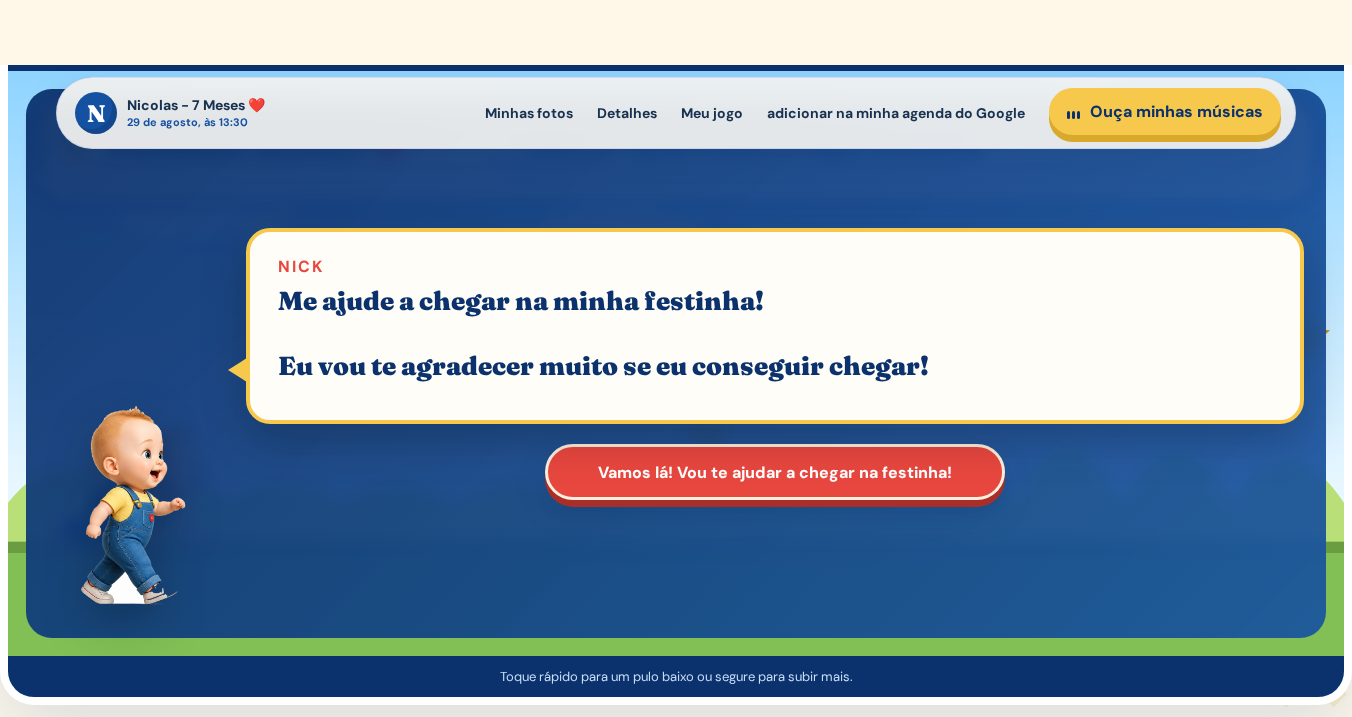
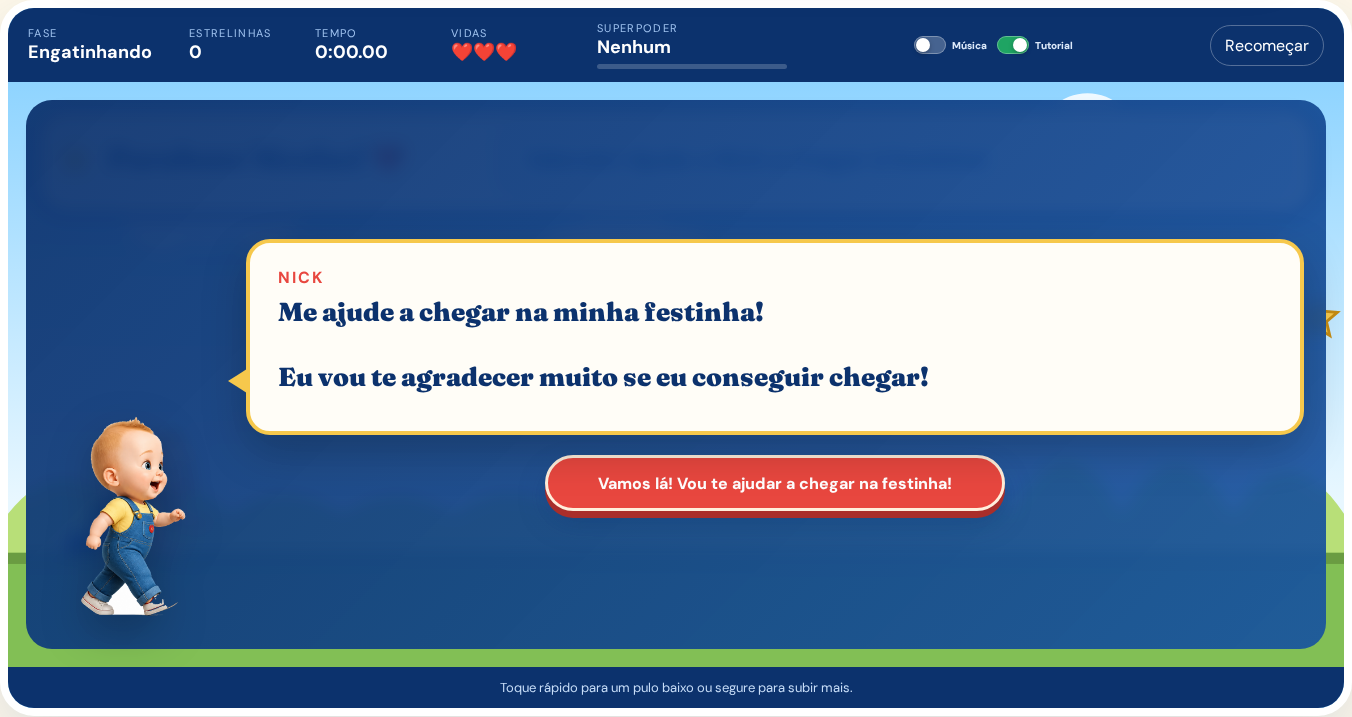
test: pin Nick sync to stable source commit

diff --git a/scripts/sync-nick-subpath.py b/scripts/sync-nick-subpath.py
@@ -2,20 +2,44 @@
 """Copy the Nick site into Confirma Play under /nick-7meses."""
 
 from pathlib import Path
+from io import BytesIO
 import shutil
+import subprocess
 import sys
+import tarfile
 
-SOURCE = Path(sys.argv[1] if len(sys.argv) > 1 else "/opt/data/projects/niver-nick/public")
+SOURCE_REPO = Path("/opt/data/projects/niver-nick")
+SOURCE = Path(sys.argv[1]) if len(sys.argv) > 1 else None
 TARGET = Path(__file__).resolve().parents[1] / "public" / "nick-7meses"
 PREFIX = "/nick-7meses"
 TEXT_EXTENSIONS = {".html", ".js", ".css", ".json", ".webmanifest", ".txt"}
 
-if not SOURCE.joinpath("index.html").exists():
-    raise SystemExit(f"Nick public directory not found: {SOURCE}")
-
 if TARGET.exists():
     shutil.rmtree(TARGET)
-shutil.copytree(SOURCE, TARGET)
+
+if SOURCE is not None:
+    if not SOURCE.joinpath("index.html").exists():
+        raise SystemExit(f"Nick public directory not found: {SOURCE}")
+    shutil.copytree(SOURCE, TARGET)
+    source_label = str(SOURCE)
+else:
+    archive = subprocess.run(
+        ["git", "archive", "HEAD:public"],
+        cwd=SOURCE_REPO,
+        capture_output=True,
+        check=True,
+    ).stdout
+    TARGET.mkdir(parents=True)
+    with tarfile.open(fileobj=BytesIO(archive), mode="r:") as bundle:
+        bundle.extractall(TARGET, filter="data")
+    commit = subprocess.run(
+        ["git", "rev-parse", "--short", "HEAD"],
+        cwd=SOURCE_REPO,
+        capture_output=True,
+        check=True,
+        text=True,
+    ).stdout.strip()
+    source_label = f"{SOURCE_REPO}@{commit}:public"
 
 for path in TARGET.rglob("*"):
     if not path.is_file() or path.suffix.lower() not in TEXT_EXTENSIONS:
@@ -62,4 +86,4 @@ if service_worker.exists():
     )
     service_worker.write_text(text, encoding="utf-8")
 
-print(f"Synced Nick site: {SOURCE} -> {TARGET}")
+print(f"Synced Nick site: {source_label} -> {TARGET}")
